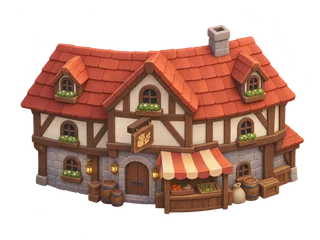
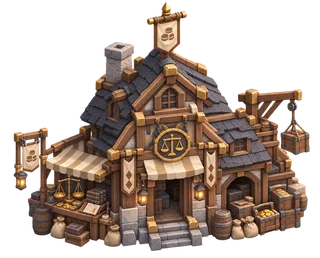
art: 物件 8 種を中立色の新しい素材に差し替える
質感の基準を image11・image12（作者作）に合わせて作り直したもの。
石・木・金属中心で、青や赤を基調にしていない。

あわせて未建設の沈め方を brightness 0.55 -> 0.86 に緩める。
新しい素材は情報量が多く、0.55 だと暗い塊になって何の建物か
分からなくなっていた。

scale は audit-art の実測値。城塞を 1.00 の基準にしている。

diff --git a/src/ui/art.ts b/src/ui/art.ts
@@ -32,14 +32,14 @@ export interface BuildingArt {
 
 /** まだ素材が無い物件は登録しない。Board はその区画を空き地として描く。 */
 export const BUILDING_ART: Partial<Record<BuildingId, BuildingArt>> = {
-  fortress: { url: fortressUrl, scale: 1 },
-  cathedral: { url: cathedralUrl, scale: 1.03 },
-  tradingHouse: { url: tradingHouseUrl, scale: 0.97 },
-  wall: { url: wallUrl, scale: 0.94 },
-  factory: { url: factoryUrl, scale: 0.88 },
-  road: { url: roadUrl, scale: 0.9 },
-  exchange: { url: exchangeUrl, scale: 0.85 },
-  quarry: { url: quarryUrl, scale: 0.89 },
+  fortress: { url: fortressUrl, scale: 1.0 },
+  cathedral: { url: cathedralUrl, scale: 1.08 },
+  tradingHouse: { url: tradingHouseUrl, scale: 0.88 },
+  wall: { url: wallUrl, scale: 0.96 },
+  factory: { url: factoryUrl, scale: 0.98 },
+  road: { url: roadUrl, scale: 0.91 },
+  exchange: { url: exchangeUrl, scale: 0.95 },
+  quarry: { url: quarryUrl, scale: 0.97 },
 };
 
 /** 人物カードの絵。建物と違い scale は持たない。カードの枠いっぱいに

diff --git a/src/ui/styles.css b/src/ui/styles.css
@@ -335,8 +335,11 @@
   transition: filter 0.25s var(--ease, ease);
 }
 
+/* 未建設。所有者が付いていないことを表すために沈めるが、
+   落としすぎると素材が暗い塊になって何の建物か分からなくなる。
+   「まだ誰のものでもない」と伝わる最小限に留める。 */
 .plot-art.is-unbuilt {
-  filter: brightness(0.55) saturate(0.55);
+  filter: brightness(0.86) saturate(0.7);
 }
 
 .plot-art.owner-you {
